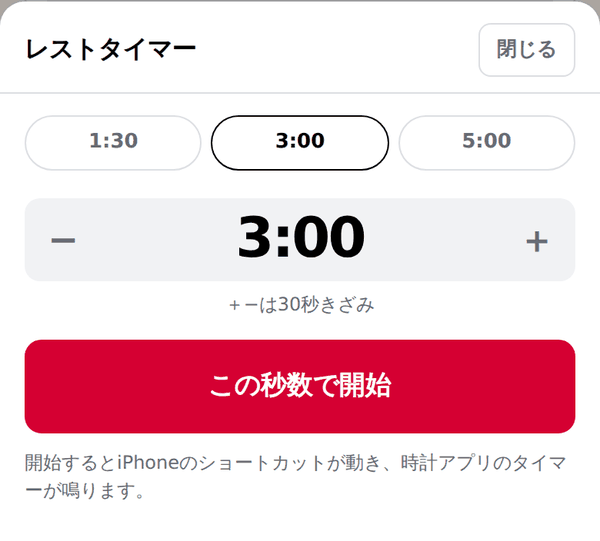
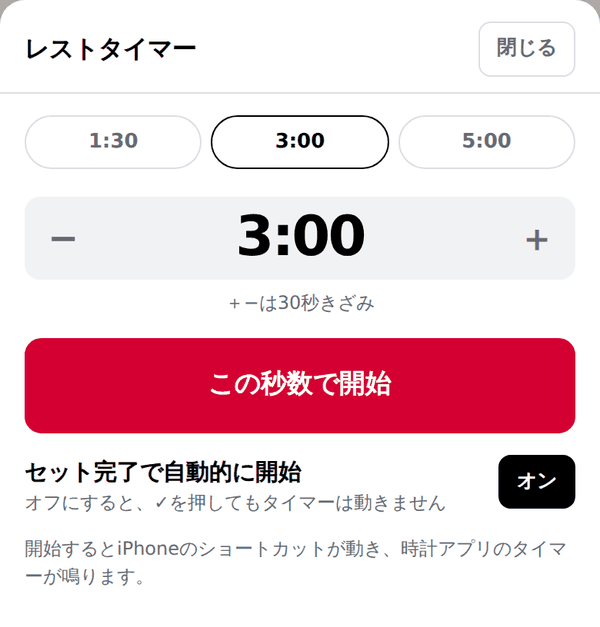
Add files via upload

diff --git a/index.html b/index.html
@@ -30,7 +30,8 @@ header{position:sticky;top:0;z-index:30;background:var(--paper);border-bottom:2p
   padding:calc(env(safe-area-inset-top,0px) + 10px) var(--pad) 10px;display:flex;align-items:baseline;gap:10px}
 .brand{font-weight:900;font-size:19px;letter-spacing:-.03em}
 .brand em{font-style:normal;color:var(--red)}
-.hdate{margin-left:auto;font-size:12px;color:var(--mute)}
+.hdate{margin-left:10px;font-size:12px;color:var(--mute)}
+.ver{font-size:11px;color:var(--mute);font-weight:700;padding:6px 0 6px 8px;letter-spacing:.01em}
 
 nav{position:fixed;left:0;right:0;bottom:0;z-index:40;display:grid;grid-template-columns:repeat(4,1fr);
   background:var(--paper);border-top:2px solid var(--ink);padding-bottom:var(--safe-b)}
@@ -183,7 +184,8 @@ table.log td:last-child{text-align:right;font-weight:700}
 </head>
 <body>
 <header><div class="brand">RACK<em>.</em></div><div class="hdate" id="hdate"></div>
-<button class="btn sm ghost" style="margin-left:10px;padding:6px 11px" data-act="timer">タイマー</button></header>
+<button class="btn sm ghost" style="margin-left:auto;padding:6px 11px" data-act="timer">タイマー</button>
+<button class="ver" id="ver" data-act="ver">v0.0</button></header>
 <main id="main"></main>
 
 <div id="tbar">
@@ -223,7 +225,7 @@ table.log td:last-child{text-align:right;font-weight:700}
   </div>
   <div class="fxbtn">
     <button class="btn" data-act="fxskip">スキップ</button>
-    <button class="btn red" data-act="fxdone">記録して休憩</button>
+    <button class="btn red" id="fxDoneBtn" data-act="fxdone">記録して休憩</button>
   </div>
 </div>
 
@@ -240,6 +242,11 @@ table.log td:last-child{text-align:right;font-weight:700}
 
 <script>
 'use strict';
+const VER='2.2';
+const CHANGES=[['2.2','「前回と同じ」ボタン / 記録の修正 / 週1の自動バックアップと復元 / 週ごとの総ボリューム'],
+ ['2.1','セット完了時にタイマーを自動で開くかどうかを選べるようにした / 右上にバージョンを表示'],
+ ['2.0','起動時は必ず「今日」から / メニュー作成を1行構成に簡略化 / ＋−ボタンで入力 / プランに統合 / iPhone標準タイマー連携 / 画面つきマニュアル'],
+ ['1.0','初版']];
 /* ========== RPEチャート ========== */
 const RPE={
  10:[100,95.5,92.2,89.2,86.3,83.7,81.1,78.6,76.2,73.9,70.7,68.0],
@@ -270,7 +277,7 @@ function defaults(){
     mk('インクラインダンベルプレス',0,120,false),mk('ベントオーバーロウ',0,150),mk('ラットプルダウン',0,120,false),
     mk('オーバーヘッドプレス',0,150),mk('レッグプレス',0,150,false),mk('ケーブルロウ',0,120,false),
     mk('トライセプスプレスダウン',0,90,false),mk('フェイスプル',0,90,false),mk('レッグカール',0,90,false)];
-  return {v:2,settings:{bar:20,round:2.5,rest:180,scName:'レストタイマー',scAfter:'clock',presets:[90,180,300],step:30},
+  return {v:2,settings:{bar:20,round:2.5,rest:180,scName:'レストタイマー',scAfter:'clock',presets:[90,180,300],step:30,autoTimer:true},
     oneRM:{[ex[0].id]:130,[ex[1].id]:105,[ex[2].id]:160},
     exercises:ex,menus:[],plans:[],logs:[],active:null,tour:false};
 }
@@ -341,6 +348,11 @@ function lastKg(exId){
     if(it&&it.sets.length) return Math.max.apply(null,it.sets.map(s=>+s.kg||0)); }
   return 0;
 }
+function lastSets(exId){
+  const ls=S.logs.slice().sort((a,b)=>b.date.localeCompare(a.date));
+  for(const l of ls){ const it=l.items.find(x=>x.exId===exId); if(it&&it.sets.length)return it.sets; }
+  return null;
+}
 function lastLog(exId){
   const ls=S.logs.slice().sort((a,b)=>b.date.localeCompare(a.date));
   for(const l of ls){ const it=l.items.find(x=>x.exId===exId); if(it&&it.sets.length){
@@ -409,7 +421,9 @@ function vSession(){
         '<button data-act="nudge" data-f="reps" data-v="1">＋</button></div>'+
         '<button class="chk" data-act="chk">✓</button></div>';
     });
-    h+='</div><div class="row" style="padding:0 14px 12px"><button class="btn ghost sm" data-act="addset" data-i="'+i+'">セット追加</button>'+
+    h+='</div><div class="row wrap" style="padding:0 14px 12px">'+
+      (lastSets(it.exId)?'<button class="btn sm" data-act="same" data-i="'+i+'">前回と同じ</button>':'')+
+      '<button class="btn ghost sm" data-act="addset" data-i="'+i+'">セット追加</button>'+
       '<button class="btn ghost sm" data-act="rmex" data-i="'+i+'">種目を外す</button></div></div>';
   });
   h+='<div style="height:60px"></div>'+
@@ -445,11 +459,34 @@ function vLog(){
   let h='';
   if(ids.length){
     const sel=ids.includes(S.chartEx)?S.chartEx:ids[0];
-    h+='<div class="chips">'+ids.map(id=>'<button class="chip'+(id===sel?' on':'')+'" data-act="chart" data-id="'+id+'">'+esc(EX(id).name)+'</button>').join('')+'</div>'+
+    h+='<h2>種目ごとの推定1RM</h2><div class="chips">'+ids.map(id=>'<button class="chip'+(id===sel?' on':'')+'" data-act="chart" data-id="'+id+'">'+esc(EX(id).name)+'</button>').join('')+'</div>'+
       '<div class="card"><div class="pad">'+chart(sel)+'</div></div>';
   }
+  h+='<h2>週ごとのボリューム</h2>'+(volChart()||'<div class="empty">記録が増えるとここに出ます。</div>');
   h+='<h2>履歴</h2>'+recent(100);
   return h;
+}
+function weekStart(dstr){
+  const d=new Date(dstr+'T00:00:00'); const w=(d.getDay()+6)%7; d.setDate(d.getDate()-w);
+  return d.getFullYear()+'-'+String(d.getMonth()+1).padStart(2,'0')+'-'+String(d.getDate()).padStart(2,'0');
+}
+function volChart(){
+  const m={};
+  S.logs.forEach(l=>{ const k=weekStart(l.date); m[k]=(m[k]||0)+(l.volume||0); });
+  const ks=Object.keys(m).sort().slice(-10);
+  if(!ks.length)return '';
+  const vs=ks.map(k=>m[k]), mx=Math.max.apply(null,vs)||1;
+  const W=320,H=120,P=16,bw=(W-P*2)/ks.length*0.62, gap=(W-P*2)/ks.length;
+  const bars=ks.map((k,i)=>{ const h=(vs[i]/mx)*(H-30);
+    return '<rect x="'+(P+i*gap+(gap-bw)/2).toFixed(1)+'" y="'+(H-14-h).toFixed(1)+'" width="'+bw.toFixed(1)+'" height="'+h.toFixed(1)+'" fill="#D50032" rx="2"/>'; }).join('');
+  const labs=ks.map((k,i)=>'<text x="'+(P+i*gap+gap/2).toFixed(1)+'" y="'+(H-3)+'" font-size="8" fill="#666B72" text-anchor="middle">'+k.slice(5).replace('-','/')+'</text>').join('');
+  const now=vs[vs.length-1], prev=vs.length>1?vs[vs.length-2]:0;
+  return '<div class="card"><div class="pad">'+
+    '<div class="row" style="align-items:baseline;gap:8px"><div class="num" style="font-size:26px;font-weight:900;letter-spacing:-.04em">'+
+    Math.round(now).toLocaleString()+'<span style="font-size:13px"> kg</span></div>'+
+    '<div class="small mute">今週の総ボリューム'+(prev?'　前週比 '+(now>=prev?'+':'')+Math.round((now/prev-1)*100)+'%':'')+'</div></div>'+
+    '<svg viewBox="0 0 '+W+' '+H+'" style="width:100%;height:auto;margin-top:6px">'+bars+labs+'</svg>'+
+    '<div class="small mute">週ごとの総挙上量（重量×回数の合計・全種目）</div></div></div>';
 }
 function chart(exId){
   const pts=[];
@@ -484,6 +521,8 @@ function vSet(){
     [['clock','時計アプリを開く'],['back','このアプリに戻る'],['none','何もしない']].map(o=>'<option value="'+o[0]+'"'+(s.scAfter===o[0]?' selected':'')+'>'+o[1]+'</option>').join('')+'</select>'+
     '<label class="f">プリセット（3つ・「3」「3:00」「180」どれでも可）</label><div class="row">'+
     s.presets.map((p,i)=>'<input type="text" class="num" style="text-align:center" data-preset="'+i+'" value="'+mmss(p)+'">').join('')+'</div>'+
+    '<label class="f">セット完了で自動的にタイマーを開始</label><select data-cfg="autoTimer">'+
+    [['1','する'],['0','しない']].map(o=>'<option value="'+o[0]+'"'+((s.autoTimer!==false)===(o[0]==='1')?' selected':'')+'>'+o[1]+'</option>').join('')+'</select>'+
     '<label class="f">＋−ボタンの刻み</label><select data-cfg="step">'+[10,15,30,60].map(v=>'<option value="'+v+'"'+(s.step==v?' selected':'')+'>'+v+'秒</option>').join('')+'</select>'+
     '<button class="btn wide" style="margin-top:12px" data-act="testsc">ショートカットを試す</button></div></div>';
 
@@ -505,8 +544,9 @@ function vSet(){
   h+='<h2>データ</h2><div class="card"><div class="pad"><div class="row wrap">'+
     '<button class="btn sm" data-act="export">書き出す</button><button class="btn sm" data-act="import">読み込む</button>'+
     '<button class="btn sm ghost" data-act="wipe">全部消す</button></div>'+
+    '<button class="btn wide" style="margin-top:10px" data-act="backups">自動バックアップから復元</button>'+
     '<div class="small mute" style="margin-top:8px">記録はこの端末の中だけに保存されます。月に一度は書き出しておくと安心です。</div></div></div>'+
-    '<div class="small mute" style="text-align:center;margin:20px 0">RACK v2.0</div>';
+    '<div class="small mute" style="text-align:center;margin:20px 0">RACK v'+VER+'</div>';
   return h;
 }
 
@@ -548,6 +588,8 @@ function runShortcut(sec){
   else if(S.settings.scAfter==='back') url+='&x-success='+encodeURIComponent(location.href);
   try{ window.location.href=url; }catch(e){ toast('ショートカットを起動できませんでした'); }
 }
+const autoOn=()=>S.settings.autoTimer!==false;
+function autoRest(sec){ if(autoOn())startRest(sec); }
 function startRest(sec){
   sec=Math.max(5,Math.round(sec||S.settings.rest));
   runShortcut(sec);
@@ -574,7 +616,11 @@ function timerPanel(){
     '<button data-act="tbn" data-v="1">＋</button></div>'+
     '<div class="small mute" style="text-align:center;margin-top:6px">＋−は'+st+'秒きざみ</div>'+
     '<button class="btn red wide big" style="margin-top:14px" data-act="tgo">'+(T.h?'停止する':'この秒数で開始')+'</button>'+
-    '<div class="small mute" style="margin-top:10px">開始するとiPhoneのショートカットが動き、時計アプリのタイマーが鳴ります。</div>';
+    '<div class="row" style="margin-top:14px;align-items:flex-start">'+
+      '<div class="grow"><div style="font-weight:700">セット完了で自動的に開始</div>'+
+      '<div class="small mute">オフにすると、✓を押してもタイマーは動きません</div></div>'+
+      '<button class="btn sm '+(autoOn()?'fill':'ghost')+'" data-act="autotgl">'+(autoOn()?'オン':'オフ')+'</button></div>'+
+      '<div class="small mute" style="margin-top:12px">開始するとiPhoneのショートカットが動き、時計アプリのタイマーが鳴ります。</div>';
   sheet('レストタイマー',h);
 }
 
@@ -596,6 +642,7 @@ function drawFX(){
   $('#fxEx').textContent=e.name;
   $('#fxSet').textContent='セット '+(FX.j+1)+' / '+it.sets.length+(it.goal?'　'+it.goal:'');
   $('#fxKgI').value=s.kg||''; $('#fxRepI').value=s.reps||''; $('#fxRpeI').value=s.rpe||s.trpe||'';
+  $('#fxDoneBtn').textContent=autoOn()?'記録して休憩':'記録して次へ';
   paintFX();
 }
 function paintFX(){
@@ -616,7 +663,7 @@ function fxDone(skip){
   const it=S.active.items[FX.i],s=it.sets[FX.j];
   if(!skip){
     s.kg=+$('#fxKgI').value||0;s.reps=+$('#fxRepI').value||0;s.rpe=+$('#fxRpeI').value||'';
-    s.done=true;save();startRest(it.rest);
+    s.done=true;save();autoRest(it.rest);
   }
   const nx=next(FX.i,FX.j);
   if(!nx){$('#focus').classList.remove('on');render();toast('全セット完了');return;}
@@ -740,6 +787,42 @@ function drawPlan(){
 }
 const opts=sel=>'<option value="">未設定</option>'+S.menus.map(m=>'<option value="'+m.id+'"'+(m.id===sel?' selected':'')+'>'+esc(m.name)+'</option>').join('');
 
+function editLog(id){
+  const l=S.logs.find(x=>x.id===id);
+  let h='<div class="small mute">'+l.date+'　重量か回数を0にすると、そのセットは削除されます。</div>';
+  l.items.forEach((it,i)=>{
+    h+='<h2>'+esc(it.name)+'</h2><div class="sthead" style="grid-template-columns:18px 1fr 1fr 1fr"><span></span><span>重量 kg</span><span>回数</span><span>RPE</span></div>';
+    it.sets.forEach((st,j)=>{
+      h+='<div class="st" style="grid-template-columns:18px 1fr 1fr 1fr"><div class="idx num">'+(j+1)+'</div>'+
+        ['kg','reps','rpe'].map(f=>'<input class="num" style="text-align:center;font-weight:700" type="number" inputmode="decimal" data-le="'+f+'" data-i="'+i+'" data-j="'+j+'" value="'+(st[f]||'')+'">').join('')+'</div>';
+    });
+  });
+  h+='<button class="btn wide fill" style="margin-top:16px" data-act="savelog" data-id="'+l.id+'">保存する</button>';
+  sheet('記録を修正',h);
+}
+
+/* ========== 自動バックアップ ========== */
+const BK='rack.bk';
+function backups(){ try{return JSON.parse(localStorage.getItem(BK))||[];}catch(e){return [];} }
+function autoBackup(){
+  if(!S.logs.length)return;
+  const bs=backups(), last=bs[bs.length-1];
+  if(last && Date.now()-last.t < 7*864e5) return;
+  bs.push({t:Date.now(),d:JSON.stringify(S)});
+  while(bs.length>3)bs.shift();
+  try{ localStorage.setItem(BK,JSON.stringify(bs)); }
+  catch(e){ while(bs.length>1){ bs.shift(); try{localStorage.setItem(BK,JSON.stringify(bs));break;}catch(e2){} } }
+}
+function backupList(){
+  const bs=backups();
+  if(!bs.length)return '<div class="small mute">まだバックアップはありません。記録を1回つけると、そこから週1で自動的に保存されます。</div>';
+  return bs.slice().reverse().map(b=>{ const d=new Date(b.t), o=JSON.parse(b.d);
+    return '<div class="li"><div><div class="nm">'+d.toLocaleDateString('ja-JP',{month:'numeric',day:'numeric'})+' '+
+      d.toLocaleTimeString('ja-JP',{hour:'2-digit',minute:'2-digit'})+'</div>'+
+      '<div class="mt">'+(o.logs||[]).length+'件の記録・'+(o.menus||[]).length+'メニュー</div></div>'+
+      '<button class="btn sm" style="margin-left:auto" data-act="restore" data-t="'+b.t+'">復元</button></div>'; }).join('');
+}
+
 /* ========== マニュアル ========== */
 const MAN=[
  ['start','はじめての3ステップ',
@@ -770,6 +853,8 @@ const MAN=[
   '<p>重量と回数は＋−ボタンで変えられます。キーボードを出さずに片手で操作できます。'+
   '右の<b>✓</b>を押すとそのセットが完了になり、休憩タイマーが自動で始まります。</p>'+
   '<div class="note"><b>前回◯◯kg×◯</b>種目名の右に、その種目の前回の実績が出ます。</div>'+
+  '<p>推奨重量が出ない補助種目は、<b>「前回と同じ」</b>を押すと前回の重量と回数がまとめて入ります。'+
+  'すでに✓を付けたセットは書き換わりません。</p>'+
   '<p>下の赤い「フォーカスで進める」を押すと、1セットずつの全画面になります。ジムではこちらが楽です。</p>'+
   '<img class="shot" src="man-focus.png" alt="フォーカス画面">'+
   '<p>バーに付けるプレートが色つきで出ます（赤25・青20・黄15・緑10・白5・黒2.5・銀1.25kg）。'+
@@ -791,6 +876,9 @@ const MAN=[
   '<li>設定タブの<b>「ショートカットを試す」</b>を押す。時計アプリが開いて90秒のタイマーが動けば成功</li>'+
   '</ol>'+
   '<img class="shot" src="man-timerset.png" alt="タイマー設定">'+
+  '<div class="note"><b>自動で開始したくないとき</b>'+
+  'タイマーパネルの「セット完了で自動的に開始」をオフにすると、✓を押してもタイマーは動きません。'+
+  '連続してセットを入力したいときや、ジム以外で記録を付けるときに使ってください。設定タブからも切り替えられます。</div>'+
   '<p>設定が終われば、あとはセットの<b>✓</b>を押すだけで自動的に休憩が始まります。'+
   '自分の好きな秒数で始めたいときは、画面右上の<b>タイマー</b>を押してください。</p>'+
   '<img class="shot" src="man-timer.png" alt="タイマーパネル">'+
@@ -812,12 +900,20 @@ const MAN=[
   'メニュー自体を作り直す必要はありません。</div>'+
   '<p>「今日」タブの「この日をとばす」で、進める位置だけ動かせます。</p>'],
  ['log','記録とバックアップ',
-  '<p>「記録」タブでは、種目ごとの<b>推定1RM</b>の推移が見られます。上のボタンで種目を切り替えます。</p>'+
+  '<p>「記録」タブでは、種目ごとの<b>推定1RM</b>の推移と、<b>週ごとの総ボリューム</b>が見られます。</p>'+
   '<img class="shot" src="man-log.png" alt="記録タブ">'+
   '<p>推定1RMは、実際に挙げた重量・回数・RPEから計算した「1回なら何kg挙がるか」です。'+
   '直近60日に記録があれば、この数字が推奨重量の基準になります。記録を重ねるほど自動で追従します。</p>'+
-  '<div class="note"><b>必ず書き出しておいてください</b>記録はこの端末のブラウザ内だけに保存されています。'+
-  '機種変更やSafariのデータ削除で消えます。設定タブの「書き出す」で月1回バックアップを取ってください。</div>']
+  '<p>総ボリュームは「重量×回数」を全種目で合計した数字です。月曜はじまりの週で集計しています。'+
+  '強度が変わらないのにボリュームだけ増え続けているときは、疲労がたまりやすい状態です。</p>'+
+  '<h3>記録を直す</h3>'+
+  '<p>履歴の記録をタップ →「この記録を修正する」で、重量・回数・RPEを後から直せます。'+
+  '重量か回数を0にして保存すると、そのセットは削除されます。</p>'+
+  '<h3>バックアップ</h3>'+
+  '<p>週に1回、アプリを開いたときに自動でバックアップが作られます（最新3件）。'+
+  '設定タブの「自動バックアップから復元」で、その時点に戻せます。</p>'+
+  '<div class="note"><b>それでも書き出しは必要です</b>自動バックアップもこの端末の中にあります。'+
+  '機種変更やSafariのデータ削除では一緒に消えるので、月に1回は設定タブの「書き出す」でファイルを保存してください。</div>']
 ];
 function manual(sec){
   const cur=sec||'start';
@@ -863,7 +959,7 @@ function act(t,ev){
   if(a==='skipday'){ const p=S.plans.find(x=>x.id===id);advance(p);render();return; }
   if(a==='chk'){ const r=t.closest('.st'),it=S.active.items[+r.dataset.i],s=it.sets[+r.dataset.j];
     s.done=!s.done;
-    if(s.done){ const ip=r.querySelectorAll('input'); s.kg=+ip[0].value||0;s.reps=+ip[1].value||0; save();render();startRest(it.rest); }
+    if(s.done){ const ip=r.querySelectorAll('input'); s.kg=+ip[0].value||0;s.reps=+ip[1].value||0; save();render();autoRest(it.rest); }
     else {save();render();} return; }
   if(a==='nudge'){ const r=t.closest('.st'),s=S.active.items[+r.dataset.i].sets[+r.dataset.j],f=t.dataset.f;
     const inp=r.querySelector('input[data-f="'+f+'"]');
@@ -872,6 +968,11 @@ function act(t,ev){
     inp.value=v?fmt(v):''; s[f]=v; save(); return; }
   if(a==='addset'){ const it=S.active.items[i],l=it.sets[it.sets.length-1]||{};
     it.sets.push({kg:l.kg||'',reps:l.reps||'',rpe:'',trpe:l.trpe||'',done:false});save();render();return; }
+  if(a==='same'){ const it=S.active.items[i],ls=lastSets(it.exId);
+    if(!ls){toast('前回の記録がありません');return;}
+    it.sets.forEach((s,j)=>{ if(s.done)return; const src=ls[Math.min(j,ls.length-1)];
+      s.kg=src.kg||'';s.reps=src.reps||''; });
+    save();render();toast('前回の重量を入れました');return; }
   if(a==='rmex'){ S.active.items.splice(i,1);save();render();return; }
   if(a==='addex'){ pickEx(ids=>{ (Array.isArray(ids)?ids:[ids]).forEach(x=>S.active.items.push(
       {exId:x,rest:EX(x).rest,goal:'自由',sets:[{kg:'',reps:'',rpe:'',done:false}]})); save();render(); },true);return; }
@@ -885,6 +986,11 @@ function act(t,ev){
     const stp=f==='kg'?(S.settings.round||2.5):f==='rpe'?0.5:1;
     let v=(+inp.value||0)+(+t.dataset.v)*stp; if(v<0)v=0; inp.value=v?fmt(v):''; paintFX(); return; }
   if(a==='timer'){ timerPanel();return; }
+  if(a==='autotgl'){ S.settings.autoTimer=!autoOn();save();timerPanel();return; }
+  if(a==='ver'){ sheet('バージョン','<div class="ttl">RACK v'+VER+'</div>'+
+    '<div class="small mute" style="margin-bottom:14px">この表示が最新でなければ、アップロードが反映されていません。</div>'+
+    CHANGES.map(c=>'<div class="li" style="display:block"><div class="nm">v'+c[0]+'</div><div class="mt" style="margin-top:3px">'+esc(c[1])+'</div></div>').join('')+
+    '<button class="btn wide ghost" style="margin-top:10px" data-act="manual">使い方を見る</button>');return; }
   if(a==='tpre'){ TB=+t.dataset.v;timerPanel();return; }
   if(a==='tbn'){ TB=Math.max(5,TB+(+t.dataset.v)*(S.settings.step||30));timerPanel();return; }
   if(a==='tgo'){ if(T.h){stopRest();}else{startRest(TB);} closeSheet();return; }
@@ -904,7 +1010,18 @@ function act(t,ev){
     sheet(l.title,'<div class="small mute">'+l.date+'</div>'+l.items.map(it=>'<h2>'+esc(it.name)+'</h2><table class="log">'+
       it.sets.map((s,n)=>'<tr><td>'+(n+1)+'</td><td>'+fmt(s.kg)+'kg × '+s.reps+(s.rpe?' @'+s.rpe:'')+'</td><td>'+
       fmt(Math.round(E1(s)*10)/10)+'kg</td></tr>').join('')+'</table>').join('')+
-      '<button class="btn wide ghost" style="margin-top:18px" data-act="dellog" data-id="'+l.id+'">この記録を削除</button>');return; }
+      '<button class="btn wide" style="margin-top:18px" data-act="editlog" data-id="'+l.id+'">この記録を修正する</button>'+
+      '<button class="btn wide ghost" style="margin-top:8px" data-act="dellog" data-id="'+l.id+'">この記録を削除</button>');return; }
+  if(a==='editlog'){ editLog(id);return; }
+  if(a==='savelog'){ const l=S.logs.find(x=>x.id===id);
+    $('#shBody').querySelectorAll('[data-le]').forEach(el=>{
+      const st=l.items[+el.dataset.i].sets[+el.dataset.j];
+      st[el.dataset.le]=+el.value||0; });
+    l.items.forEach(it=>it.sets=it.sets.filter(x=>x.kg&&x.reps));
+    l.items=l.items.filter(it=>it.sets.length);
+    l.volume=0;l.items.forEach(it=>it.sets.forEach(x=>l.volume+=x.kg*x.reps));
+    if(!l.items.length)S.logs=S.logs.filter(x=>x.id!==l.id);
+    save();closeSheet();render();toast('修正しました');return; }
   if(a==='dellog'){ if(confirm('削除しますか？')){S.logs=S.logs.filter(x=>x.id!==id);save();closeSheet();render();} return; }
   if(a==='rmall'){ sheet('基準1RM',S.exercises.map(e=>'<label class="f">'+esc(e.name)+'</label>'+
     '<input type="number" step="2.5" data-rm="'+e.id+'" value="'+(S.oneRM[e.id]||'')+'">').join(''));return; }
@@ -922,6 +1039,14 @@ function act(t,ev){
           if(e._new){delete e._new;S.exercises.push(e);} save();closeSheet();render(); };
         if(id)$('#exD').onclick=()=>{ if(confirm('削除しますか？（過去の記録は残ります）')){S.exercises=S.exercises.filter(x=>x.id!==id);save();closeSheet();render();} };
       });return; }
+  if(a==='restore'){ const b=backups().find(x=>String(x.t)===t.dataset.t); if(!b)return;
+    if(!confirm('この時点のデータに戻します。いまの記録は上書きされます。よろしいですか？'))return;
+    try{ load2(JSON.parse(b.d)); save(); render(); closeSheet(); toast('復元しました'); }catch(e){ toast('復元できませんでした'); }
+    return; }
+  if(a==='backups'){ sheet('自動バックアップ',
+    '<div class="small mute" style="margin-bottom:12px">週に1回、アプリを開いたときに自動で保存されます（最新3件）。'+
+    'この端末の中に保存されるため、機種変更やSafariのデータ削除では消えます。念のため月1回は「書き出す」も使ってください。</div>'+
+    backupList());return; }
   if(a==='export'){ const b=new Blob([JSON.stringify(S)],{type:'application/json'}),u=URL.createObjectURL(b),l=document.createElement('a');
     l.href=u;l.download='rack-'+todayStr()+'.json';l.click();setTimeout(()=>URL.revokeObjectURL(u),1000);toast('書き出しました');return; }
   if(a==='import'){ const inp=document.createElement('input');inp.type='file';inp.accept='.json,application/json';
@@ -993,12 +1118,13 @@ document.addEventListener('input',ev=>{
   if(el.dataset.rm){ S.oneRM[el.dataset.rm]=+el.value||0;save();return; }
   if(el.dataset.preset!=null){ S.settings.presets[+el.dataset.preset]=parseTimeText(el.value);save();return; }
   if(el.dataset.cfg){ const c=el.dataset.cfg;
-    S.settings[c]=(c==='scName'||c==='scAfter')?el.value:(+el.value||(c==='round'?2.5:0));save();return; }
+    S.settings[c]=(c==='scName'||c==='scAfter')?el.value:c==='autoTimer'?el.value==='1':(+el.value||(c==='round'?2.5:0));
+    save();return; }
 });
 document.addEventListener('visibilitychange',()=>{ if(!document.hidden&&T.h)tick(); });
 
 /* 起動 */
-load(); TAB='today'; render();
+load(); autoBackup(); TAB='today'; document.getElementById('ver').textContent='v'+VER; render();
 if(!S.tour&&!S.menus.length&&!S.logs.length) setTimeout(tour,400);
 if('serviceWorker' in navigator) window.addEventListener('load',()=>navigator.serviceWorker.register('sw.js').catch(()=>{}));
 </script>

diff --git a/sw.js b/sw.js
@@ -1,5 +1,5 @@
-/* キャッシュ名を変えると更新が配信されます（rack-v3 → rack-v4 …） */
-const CACHE = 'rack-v3';
+/* キャッシュ名を変えると更新が配信されます（rack-v5 → rack-v6 …） */
+const CACHE = 'rack-v5';
 const ASSETS = ['./','./index.html','./manifest.json',
   './icon-180.png','./icon-192.png','./icon-512.png','./icon-maskable-512.png',
   './man-today.png','./man-menu.png','./man-group.png','./man-session.png',
